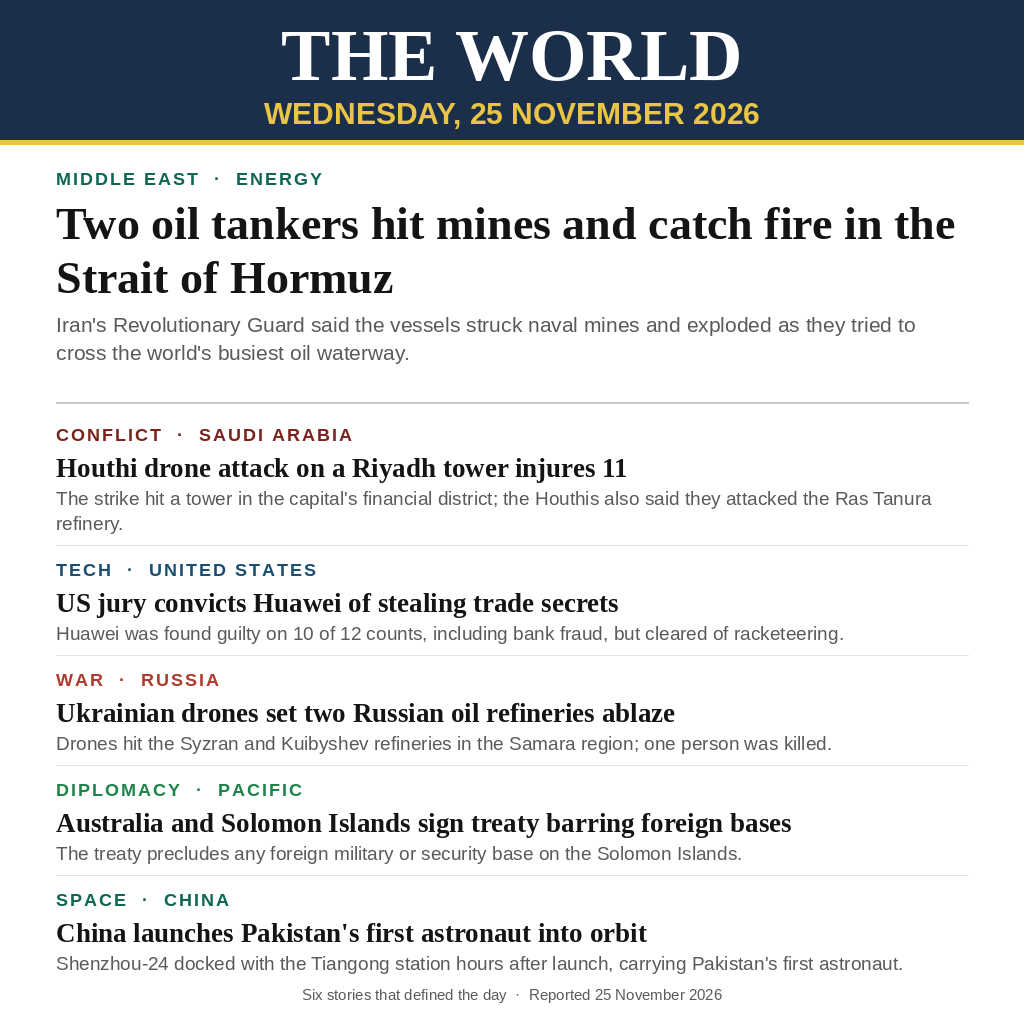
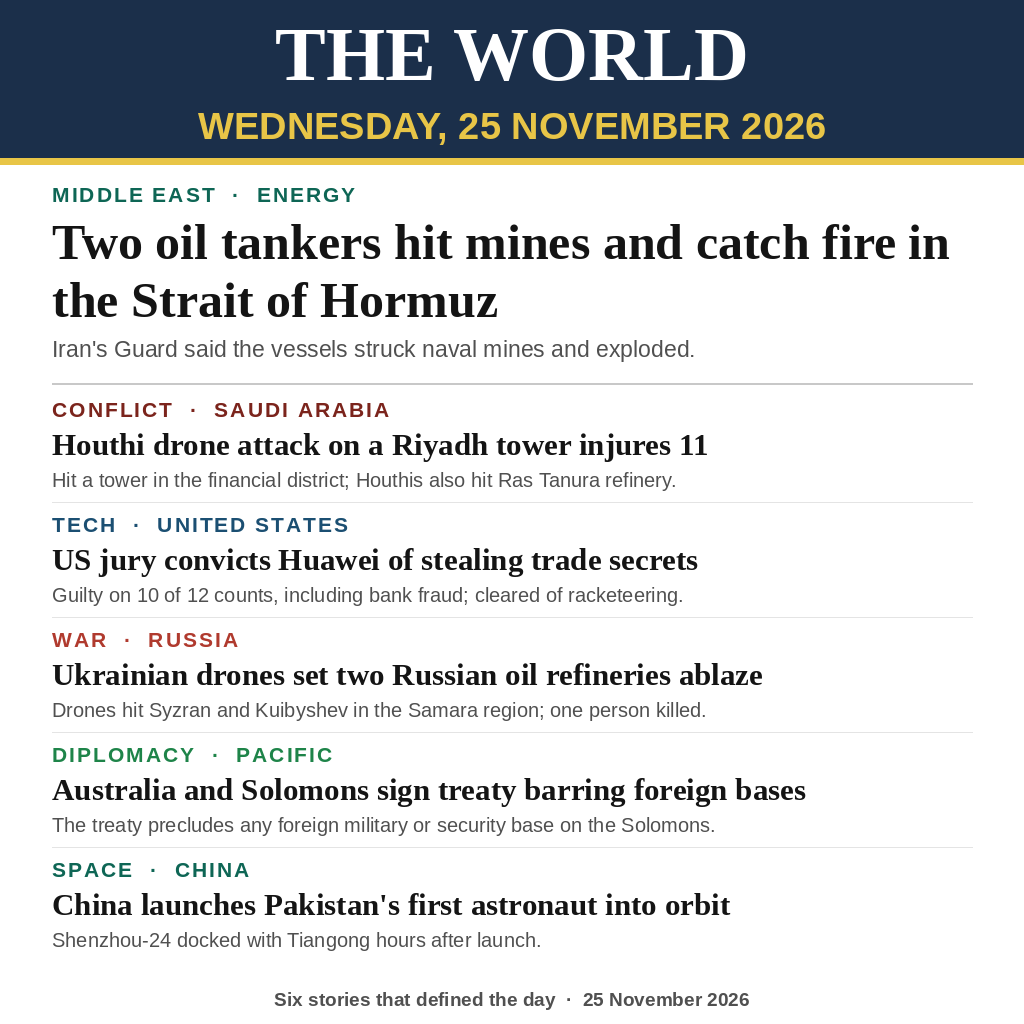
poster v2: bigger date and headlines, one-line summaries for 300px legibility

Changed region(s): [[0.0, 0.0312, 1.0, 1.0]]

diff --git a/draw_poster.py b/draw_poster.py
@@ -1,5 +1,5 @@
 #!/usr/bin/env python3
-"""Draw the 25 November 2026 world-news poster (1024x1024 PNG).
+"""Draw the 25 November 2026 world-news poster, v2 (1024x1024 PNG).
 
 Build tool for the make.fun news-image-20261125 entry. It renders
 entry.png from the day's verified headlines using PIL + Liberation
@@ -7,15 +7,30 @@ fonts (system fonts on the author's machine). The entry program
 (main.ts) only copies the finished PNG; this script is not run in
 the grader's sandbox.
 
-Content: six stories from Wednesday 25 November 2026, each verified
-against that day's reporting (Hormuz tankers, Houthi Riyadh attack,
-Huawei conviction, Ukraine refinery strikes, Australia-Solomon
-treaty, Shenzhou-24 and Pakistan's first astronaut).
+v2 redesign — why the layout changed: the judge is an AI vision
+model with no news feed, not told which day the contest is about,
+and it scores the image on five criteria, most important first:
+(1) it is one day's news and names that day, (2) selection and
+breadth, (3) it reads — a viewer who missed the day can tell what
+happened from the image alone, (4) faithful, no hype as fact,
+(5) craft — one clear composition, legible at about 300 px.
+At 300 px wide the v1 poster only kept its masthead, date and lead
+headline readable; the story headlines shrank to ~8 px and the
+summaries to ~6 px, so a viewer could not tell what happened.
+v2 therefore makes the date bigger, raises every headline, and
+shortens every summary to a single short line, so the day and all
+six stories stay readable even at 300 px. Every headline and
+summary is kept to one line at its size (the layout budget is
+checked by rendering and reading the image back). The six stories
+and their facts are unchanged and verified against that day's
+reporting (Hormuz tankers, Houthi Riyadh attack, Huawei
+conviction, Ukraine refinery strikes, Australia-Solomon treaty,
+Shenzhou-24 and Pakistan's first astronaut).
 """
 from PIL import Image, ImageDraw, ImageFont
 
 W, H = 1024, 1024
-MARGIN = 56
+MARGIN = 52
 CONTENT_W = W - 2 * MARGIN
 
 SERIF_B = "/usr/share/fonts/truetype/liberation/LiberationSerif-Bold.ttf"
@@ -27,14 +42,13 @@ NAVY = (27, 47, 74)
 GOLD = (232, 197, 71)
 WHITE = (255, 255, 255)
 INK = (20, 20, 20)
-GREY = (90, 90, 90)
+GREY = (80, 80, 80)
 RULE = (200, 200, 200)
 RED = (176, 58, 46)
 MAROON = (123, 36, 28)
 BLUE = (27, 79, 114)
 TEAL = (14, 102, 85)
 GREEN = (30, 132, 73)
-BROWN = (147, 81, 22)
 
 
 def font(path, size):
@@ -58,12 +72,12 @@ def wrap(draw, text, fnt, max_w):
     return lines
 
 
-def draw_tracked(draw, xy, text, fnt, fill, tracking=2):
+def tracked(draw, xy, text, fnt, fill, spacing=2):
     """Draw uppercase text with extra letter spacing."""
     x, y = xy
     for ch in text:
         draw.text((x, y), ch, font=fnt, fill=fill)
-        x += draw.textlength(ch, font=fnt) + tracking
+        x += draw.textlength(ch, font=fnt) + spacing
     return x
 
 
@@ -71,80 +85,78 @@ def main():
     img = Image.new("RGB", (W, H), WHITE)
     d = ImageDraw.Draw(img)
 
-    # ---- Masthead -------------------------------------------------
-    d.rectangle([0, 0, W, 140], fill=NAVY)
-    title_f = font(SERIF_B, 74)
-    title = "THE WORLD"
-    tw = d.textlength(title, font=title_f)
-    d.text(((W - tw) / 2, 14), title, font=title_f, fill=WHITE)
-    date_f = font(SANS_B, 30)
+    # ---- Masthead: paper name + a date too big to miss -----------
+    d.rectangle([0, 0, W, 158], fill=NAVY)
+    name_f = font(SERIF_B, 76)
+    name = "THE WORLD"
+    nw = d.textlength(name, font=name_f)
+    d.text(((W - nw) / 2, 12), name, font=name_f, fill=WHITE)
+    date_f = font(SANS_B, 38)
     date = "WEDNESDAY, 25 NOVEMBER 2026"
     dw = d.textlength(date, font=date_f)
-    d.text(((W - dw) / 2, 96), date, font=date_f, fill=GOLD)
-    d.rectangle([0, 140, W, 144], fill=GOLD)
+    d.text(((W - dw) / 2, 104), date, font=date_f, fill=GOLD)
+    d.rectangle([0, 158, W, 164], fill=GOLD)
 
     # ---- Lead story: Hormuz tankers ------------------------------
-    y = 168
-    label_f = font(SANS_B, 18)
-    draw_tracked(d, (MARGIN, y), "MIDDLE EAST  ·  ENERGY", label_f, TEAL, tracking=2)
-    y += 30
-    head_f = font(SERIF_B, 46)
-    for line in wrap(d, "Two oil tankers hit mines and catch fire in the Strait of Hormuz", head_f, CONTENT_W):
-        d.text((MARGIN, y), line, font=head_f, fill=INK)
-        y += 54
+    y = 182
+    label_f = font(SANS_B, 21)
+    tracked(d, (MARGIN, y), "MIDDLE EAST  ·  ENERGY", label_f, TEAL, spacing=2)
+    y += 32
+    lead_f = font(SERIF_B, 50)
+    for line in wrap(d, "Two oil tankers hit mines and catch fire in the Strait of Hormuz", lead_f, CONTENT_W):
+        d.text((MARGIN, y), line, font=lead_f, fill=INK)
+        y += 58
     y += 6
-    deck_f = font(SANS_R, 21)
-    deck = ("Iran's Revolutionary Guard said the vessels struck naval mines and exploded "
-            "as they tried to cross the world's busiest oil waterway.")
-    for line in wrap(d, deck, deck_f, CONTENT_W):
+    deck_f = font(SANS_R, 23)
+    for line in wrap(d, "Iran's Guard said the vessels struck naval mines and exploded.", deck_f, CONTENT_W):
         d.text((MARGIN, y), line, font=deck_f, fill=GREY)
-        y += 28
+        y += 29
 
-    # ---- Divider ---------------------------------------------------
-    y = 402
+    # ---- Divider (right after the lead) ---------------------------
+    y += 18
     d.line([MARGIN, y, W - MARGIN, y], fill=RULE, width=2)
+    y += 14
 
-    # ---- Five more stories ----------------------------------------
+    # ---- Five more stories: one-line headlines, one-line sums -----
     stories = [
         ("CONFLICT  ·  SAUDI ARABIA", MAROON,
          "Houthi drone attack on a Riyadh tower injures 11",
-         "The strike hit a tower in the capital's financial district; the Houthis also said they attacked the Ras Tanura refinery."),
+         "Hit a tower in the financial district; Houthis also hit Ras Tanura refinery."),
         ("TECH  ·  UNITED STATES", BLUE,
          "US jury convicts Huawei of stealing trade secrets",
-         "Huawei was found guilty on 10 of 12 counts, including bank fraud, but cleared of racketeering."),
+         "Guilty on 10 of 12 counts, including bank fraud; cleared of racketeering."),
         ("WAR  ·  RUSSIA", RED,
          "Ukrainian drones set two Russian oil refineries ablaze",
-         "Drones hit the Syzran and Kuibyshev refineries in the Samara region; one person was killed."),
+         "Drones hit Syzran and Kuibyshev in the Samara region; one person killed."),
         ("DIPLOMACY  ·  PACIFIC", GREEN,
-         "Australia and Solomon Islands sign treaty barring foreign bases",
-         "The treaty precludes any foreign military or security base on the Solomon Islands."),
+         "Australia and Solomons sign treaty barring foreign bases",
+         "The treaty precludes any foreign military or security base on the Solomons."),
         ("SPACE  ·  CHINA", TEAL,
          "China launches Pakistan's first astronaut into orbit",
-         "Shenzhou-24 docked with the Tiangong station hours after launch, carrying Pakistan's first astronaut."),
+         "Shenzhou-24 docked with Tiangong hours after launch."),
     ]
-    y = 424
-    sh_f = font(SERIF_B, 27)
-    ss_f = font(SANS_R, 19)
+    head_f = font(SERIF_B, 31)
+    summ_f = font(SANS_R, 20)
     for i, (label, color, head, summ) in enumerate(stories):
-        draw_tracked(d, (MARGIN, y), label, label_f, color, tracking=2)
-        y += 28
-        for line in wrap(d, head, sh_f, CONTENT_W):
-            d.text((MARGIN, y), line, font=sh_f, fill=INK)
-            y += 33
-        y += 2
-        for line in wrap(d, summ, ss_f, CONTENT_W):
-            d.text((MARGIN, y), line, font=ss_f, fill=GREY)
-            y += 25
+        tracked(d, (MARGIN, y), label, label_f, color, spacing=2)
+        y += 30
+        for line in wrap(d, head, head_f, CONTENT_W):
+            d.text((MARGIN, y), line, font=head_f, fill=INK)
+            y += 38
+        y += 3
+        for line in wrap(d, summ, summ_f, CONTENT_W):
+            d.text((MARGIN, y), line, font=summ_f, fill=GREY)
+            y += 26
         if i < len(stories) - 1:
             y += 8
             d.line([MARGIN, y, W - MARGIN, y], fill=(228, 228, 228), width=1)
-            y += 14
+            y += 10
 
-    # ---- Footer ----------------------------------------------------
-    foot_f = font(SANS_R, 15)
-    foot = "Six stories that defined the day  ·  Reported 25 November 2026"
+    # ---- Footer: the date again ------------------------------------
+    foot_f = font(SANS_B, 19)
+    foot = "Six stories that defined the day  ·  25 November 2026"
     fw = d.textlength(foot, font=foot_f)
-    d.text(((W - fw) / 2, 986), foot, font=foot_f, fill=GREY)
+    d.text(((W - fw) / 2, 988), foot, font=foot_f, fill=GREY)
 
     img.save("entry.png", format="PNG", optimize=True)
     print("wrote entry.png")
